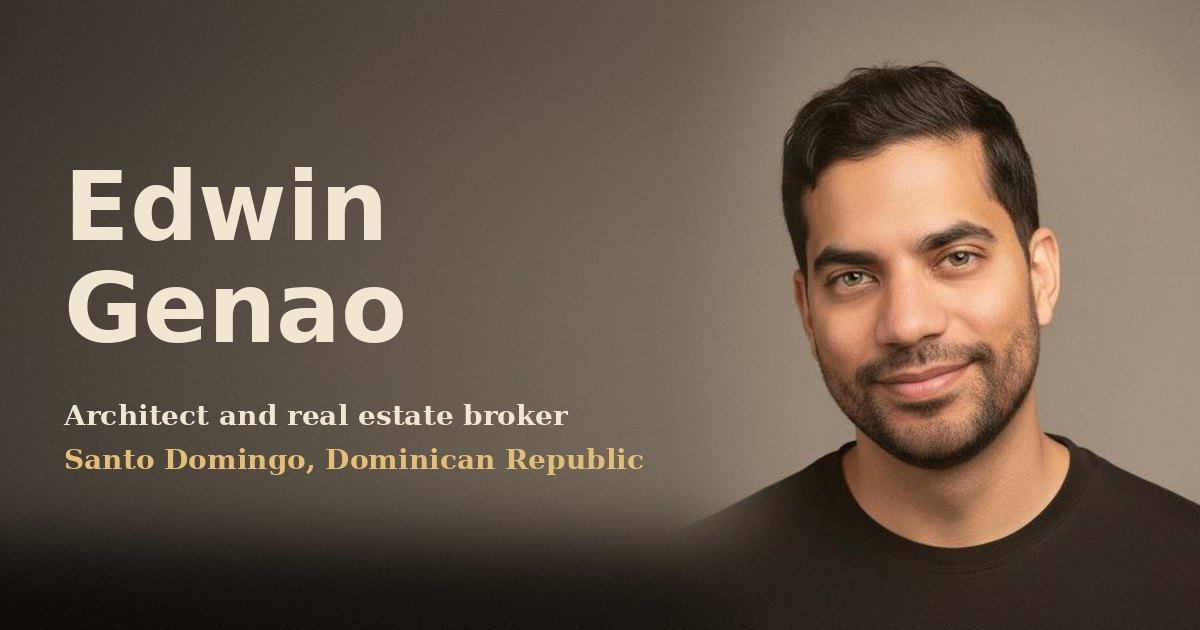
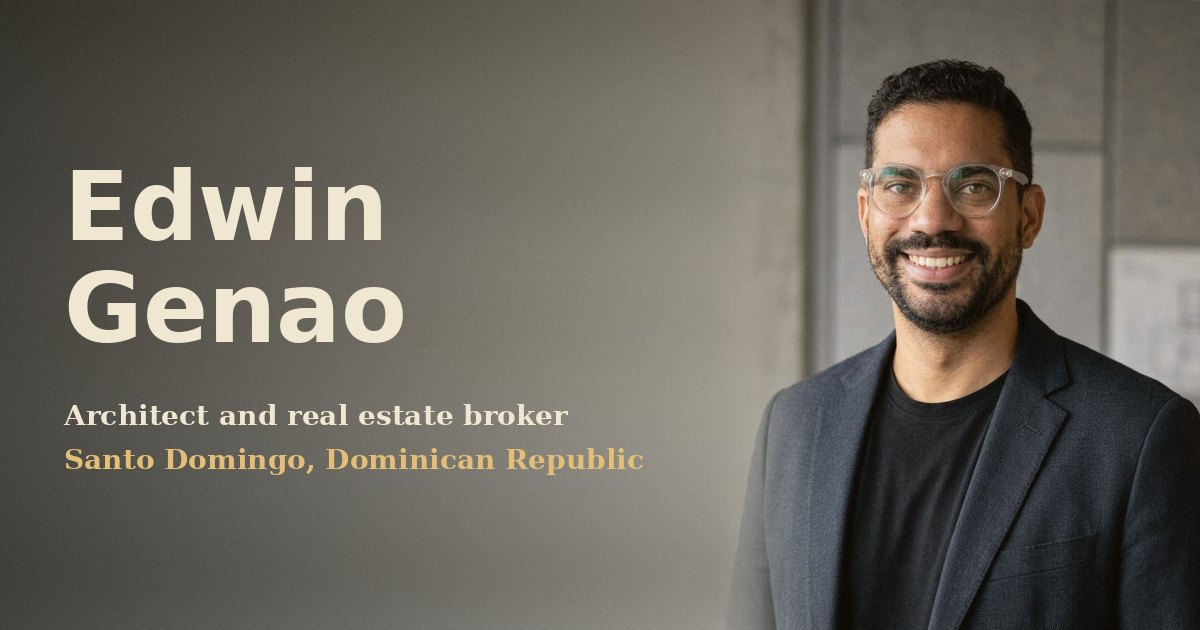
Add files via upload

diff --git a/es.html b/es.html
@@ -47,7 +47,7 @@ footer a:hover{color:#D6A85C}
 .hero-top{display:flex;flex-wrap:wrap;gap:48px 64px;align-items:flex-start;justify-content:space-between}
 .hero-text{flex:1 1 520px;min-width:0;display:flex;flex-direction:column;gap:56px}
 .hero-photo{flex:0 0 auto;margin:0;width:clamp(240px,25vw,360px)}
-.hero-photo img{display:block;width:100%;height:auto;aspect-ratio:520/600;object-fit:cover}
+.hero-photo img{display:block;width:100%;height:auto;aspect-ratio:4/5;object-fit:cover}
 @media (max-width:700px){
 .hero-text{gap:44px !important}
 .hero-photo{width:100% !important;max-width:520px}
@@ -115,7 +115,7 @@ a{transition:color .2s}
 <h1 aria-label="Edwin Genao" style="margin:0;font-family:'Archivo',sans-serif;font-stretch:125%;font-weight:300;font-size:clamp(64px,11.5vw,176px);line-height:0.88;letter-spacing:-0.035em"><span class="mask" aria-hidden="true"><span class="rise r1">Edwin</span></span> <span class="mask" aria-hidden="true"><span class="rise r2">Genao</span></span></h1>
 <p class="fade" style="margin:0;max-width:620px;font-size:22px;line-height:1.55">Arquitecto y corredor inmobiliario en Santo Domingo. Quince años de trabajo en diseño marcan cómo leo una propiedad: su factibilidad, su posición en el mercado y su valor a largo plazo.</p>
 </div>
-<figure class="hero-photo fade"><img src="edwin.jpg" width="520" height="600" alt="Retrato de Edwin Genao" fetchpriority="high"></figure>
+<figure class="hero-photo fade"><img src="edwin.jpg" width="800" height="1000" alt="Retrato de Edwin Genao" fetchpriority="high"></figure>
 </div>
 
 <div class="fade" style="border-bottom:1px solid rgba(42,26,18,0.3)">

diff --git a/index.html b/index.html
@@ -47,7 +47,7 @@ footer a:hover{color:#D6A85C}
 .hero-top{display:flex;flex-wrap:wrap;gap:48px 64px;align-items:flex-start;justify-content:space-between}
 .hero-text{flex:1 1 520px;min-width:0;display:flex;flex-direction:column;gap:56px}
 .hero-photo{flex:0 0 auto;margin:0;width:clamp(240px,25vw,360px)}
-.hero-photo img{display:block;width:100%;height:auto;aspect-ratio:520/600;object-fit:cover}
+.hero-photo img{display:block;width:100%;height:auto;aspect-ratio:4/5;object-fit:cover}
 @media (max-width:700px){
 .hero-text{gap:44px !important}
 .hero-photo{width:100% !important;max-width:520px}
@@ -115,7 +115,7 @@ a{transition:color .2s}
 <h1 aria-label="Edwin Genao" style="margin:0;font-family:'Archivo',sans-serif;font-stretch:125%;font-weight:300;font-size:clamp(64px,11.5vw,176px);line-height:0.88;letter-spacing:-0.035em"><span class="mask" aria-hidden="true"><span class="rise r1">Edwin</span></span> <span class="mask" aria-hidden="true"><span class="rise r2">Genao</span></span></h1>
 <p class="fade" style="margin:0;max-width:620px;font-size:22px;line-height:1.55">Architect and real estate broker in Santo Domingo. Fifteen years of design work shape how I read a property: its feasibility, its market position and its long-term value.</p>
 </div>
-<figure class="hero-photo fade"><img src="edwin.jpg" width="520" height="600" alt="Portrait of Edwin Genao" fetchpriority="high"></figure>
+<figure class="hero-photo fade"><img src="edwin.jpg" width="800" height="1000" alt="Portrait of Edwin Genao" fetchpriority="high"></figure>
 </div>
 
 <div class="fade" style="border-bottom:1px solid rgba(42,26,18,0.3)">
